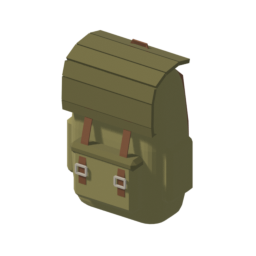
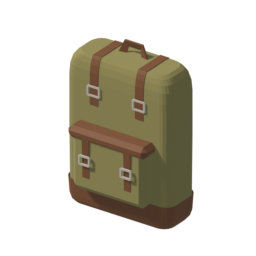
feat(122): item thumbnails — book-bag Pack, old rucksack kept as its own model, squared coffee lid, green bedroll wool

Changed region(s): [[0.2188, 0.0938, 0.7812, 0.9062]]

diff --git a/assets/models/src/items.py b/assets/models/src/items.py
@@ -41,7 +41,7 @@ MATS = {
     "CanvasDark": ((0.13, 0.12, 0.04, 1), 0.95),
     "Leather":    ((0.16, 0.06, 0.02, 1), 0.7),
     "Buckle":     ((0.45, 0.42, 0.36, 1), 0.45),
-    "Wool":       ((0.42, 0.04, 0.03, 1), 0.95),
+    "Wool":       ((0.09, 0.115, 0.026, 1), 0.95),
     "WoolStripe": ((0.78, 0.70, 0.52, 1), 0.95),
 }
 
@@ -205,7 +205,7 @@ def rrect(w, d, r, z, per=4, cx=0.0, cy=0.0):
 # ── Items ────────────────────────────────────────────────────────────────────────────────────────
 
 def build_coffee():
-    """A 12 oz paper to-go cup: tapered cup, rolled rim, kraft sleeve, domed sip lid."""
+    """A 12 oz paper to-go cup: tapered cup, rolled rim, kraft sleeve, squared-off sip lid."""
     b = Builder(); SEG = 32
     r = lambda z: 0.030 + (0.0455 - 0.030) * z / 0.128
     b.lathe([(0.0285, 0.0), (0.030, 0.002)] + [(r(z), z) for z in (0.02, 0.05, 0.08, 0.11, 0.126)]
@@ -213,9 +213,12 @@ def build_coffee():
     z0, z1 = 0.034, 0.094
     b.lathe([(r(z0), z0), (r(z0) + 0.0022, z0), (r(z0 + 0.03) + 0.0022, z0 + 0.03), (r(z1) + 0.0022, z1), (r(z1), z1)],
             SEG, "CupSleeve", cap_bottom=False, cap_top=False)
-    b.lathe([(0.0478, 0.1295), (0.0490, 0.1335), (0.0485, 0.1385), (0.0440, 0.1405), (0.0425, 0.1445),
-             (0.0335, 0.1468), (0.016, 0.1475), (0.0, 0.1478)], SEG, "CupLid", cap_bottom=False, cap_top=False)
-    b.cbox((0.0, -0.033, 0.1462), (0.016, 0.007, 0.004), "CupLid", ch=0.0015)   # sip hole spout, facing front
+    # Lid: a skirt over the rolled rim with a bead, a flat shelf, then a near-vertical wall up to a
+    # squared-off raised band around a recessed flat centre; the sip slot sits on the band at the front.
+    b.lathe([(0.0478, 0.1290), (0.0492, 0.1298), (0.0492, 0.1335), (0.0497, 0.1342), (0.0497, 0.1356),
+             (0.0492, 0.1362), (0.0444, 0.1366), (0.0434, 0.1478), (0.0426, 0.1488), (0.0372, 0.1488),
+             (0.0366, 0.1478), (0.0, 0.1478)], SEG, "CupLid", cap_bottom=False, cap_top=False)
+    b.cbox((0.0, -0.0400, 0.1489), (0.011, 0.0035, 0.0006), "Chili", ch=0.0)   # sip slot: coffee showing through
     return b.finish("coffee")
 
 
@@ -371,6 +374,50 @@ def build_emergencyGas():
 
 
 def build_pack():
+    """A small canvas book bag: boxy body with rounded top edges, two leather straps buckled over the
+    top, leather base, leather-flapped front pocket with two buckled straps, canvas webbing shoulder
+    straps on leather tabs, a leather grab loop."""
+    b = Builder()
+    body = ((0.0, 0.25, 0.085), (0.008, 0.262, 0.097), (0.02, 0.27, 0.10), (0.06, 0.274, 0.104), (0.20, 0.276, 0.106),
+            (0.31, 0.276, 0.106), (0.335, 0.272, 0.104), (0.352, 0.262, 0.098), (0.363, 0.246, 0.090), (0.369, 0.228, 0.082))
+    b.loft([rrect(w, d, min(0.025, d / 2 - 0.002), z, per=5) for z, w, d in body], "Canvas")
+    # Leather base, wrapped a few mm proud of the canvas.
+    base = ((0.0, 0.256, 0.091), (0.008, 0.268, 0.103), (0.02, 0.276, 0.106), (0.06, 0.280, 0.110))
+    b.loft([rrect(w, d, 0.026, z, per=5) for z, w, d in base], "Leather", cap_top=False)
+    # Two leather straps over the top, from the back down the front, buckled above the pocket.
+    over = [r for r in body if r[0] >= 0.30]
+    path = [(d / 2, z) for z, w, d in over] + [(-d / 2, z) for z, w, d in reversed(over)] + [(-body[4][2] / 2, 0.255)]
+    for x in (-0.06, 0.06):
+        for (y0, z0), (y1, z1) in zip(path, path[1:]):
+            t = Vector((0, y1 - y0, z1 - z0)).normalized(); n = (0, -t.z, t.y)
+            b.bar((x, y0, z0), (x, y1, z1), 0.022, "Leather", h=0.004, caps=False, up=n)
+        yb, bz = -body[4][2] / 2 - 0.003, 0.290
+        for (p, q) in (((x - 0.015, yb, bz - 0.011), (x + 0.015, yb, bz - 0.011)),
+                       ((x - 0.015, yb, bz + 0.011), (x + 0.015, yb, bz + 0.011)),
+                       ((x - 0.015, yb, bz - 0.011), (x - 0.015, yb, bz + 0.011)),
+                       ((x + 0.015, yb, bz - 0.011), (x + 0.015, yb, bz + 0.011))):
+            b.bar(p, q, 0.004, "Buckle")
+    # Front pocket under a leather flap, two short straps buckled down over it.
+    b.cbox((0.0, -0.068, 0.13), (0.20, 0.045, 0.15), "Canvas", ch=0.016)
+    b.cbox((0.0, -0.072, 0.197), (0.208, 0.050, 0.030), "Leather", ch=0.010)
+    for x in (-0.055, 0.055):
+        b.ribbon([(x, -0.0955, 0.192), (x, -0.0935, 0.15), (x, -0.092, 0.095)], (0, -1, 0), 0.018, 0.003, "Leather")
+        bz = 0.140
+        for (p, q) in (((x - 0.013, -0.098, bz - 0.010), (x + 0.013, -0.098, bz - 0.010)),
+                       ((x - 0.013, -0.098, bz + 0.010), (x + 0.013, -0.098, bz + 0.010)),
+                       ((x - 0.013, -0.098, bz - 0.010), (x - 0.013, -0.098, bz + 0.010)),
+                       ((x + 0.013, -0.098, bz - 0.010), (x + 0.013, -0.098, bz + 0.010))):
+            b.bar(p, q, 0.004, "Buckle")
+    # Canvas webbing shoulder straps on the back, anchored low on leather tabs; leather grab loop on top.
+    for x in (-0.06, 0.06):
+        b.ribbon([(x * 0.7, 0.040, 0.350), (x, 0.068, 0.31), (x * 1.1, 0.078, 0.20), (x * 1.25, 0.073, 0.08), (x * 1.3, 0.057, 0.040)],
+                 (0, 1, 0), 0.034, 0.006, "CanvasDark")
+        b.cbox((x * 1.3, 0.058, 0.036), (0.040, 0.010, 0.032), "Leather", ch=0.003)
+    b.ribbon([(-0.03, 0.012, 0.366), (-0.02, 0.016, 0.392), (0.02, 0.016, 0.392), (0.03, 0.012, 0.366)], (0, 1, 0.3), 0.018, 0.004, "Leather")
+    return b.finish("pack")
+
+
+def build_rucksack():
     """An old canvas rucksack: lofted body, top flap, front pocket, leather straps + buckles, haul loop."""
     b = Builder()
     rings = []
@@ -379,18 +426,38 @@ def build_pack():
                     (0.36, 0.295, 0.165), (0.40, 0.283, 0.155), (0.42, 0.27, 0.145), (0.445, 0.24, 0.12)):
         rings.append(rrect(w, d, 0.045, z, per=6))
     b.loft(rings, "Canvas")
-    # Top flap: a slab draped over the top and down the front (side profile in YZ, swept along X).
-    prof = [(0.07, 0.455), (0.02, 0.468), (-0.04, 0.462), (-0.085, 0.440), (-0.098, 0.400), (-0.100, 0.330), (-0.096, 0.300)]
-    hw = 0.150
-    for (y0, z0), (y1, z1) in zip(prof, prof[1:]):
-        for (ya, za, yb, zb, mat) in ((y0, z0, y1, z1, "CanvasDark"),):
-            n = Vector((0, -(z1 - z0), (y1 - y0))).normalized() * 0.012
-            b.face([(-hw, ya, za), (hw, ya, za), (hw, yb, zb), (-hw, yb, zb)], mat)
-            b.face([(-hw, yb - n.y, zb - n.z), (hw, yb - n.y, zb - n.z), (hw, ya - n.y, za - n.z), (-hw, ya - n.y, za - n.z)], mat)
-            b.face([(hw, ya, za), (hw, ya - n.y, za - n.z), (hw, yb - n.y, zb - n.z), (hw, yb, zb)], mat)
-            b.face([(-hw, yb, zb), (-hw, yb - n.y, zb - n.z), (-hw, ya - n.y, za - n.z), (-hw, ya, za)], mat)
-    y, z = prof[-1]
-    b.face([(-hw, y, z), (-hw, y + 0.012, z), (hw, y + 0.012, z), (hw, y, z)], "CanvasDark")
+    # Top flap: a soft lid draped over the top and down the front. A grid of (profile x across)
+    # points: the side profile in YZ, its edges drooping into the body as |v|^3 so the flap wraps the
+    # shoulders, and its front hem cut short at the corners into a U. Two skins 1 cm apart + a rim.
+    prof = [Vector(p) for p in ((0.07, 0.455), (0.02, 0.468), (-0.04, 0.462), (-0.085, 0.440), (-0.098, 0.400),
+                                (-0.100, 0.330), (-0.096, 0.300))]
+    arc = [0.0]
+    for p0, p1 in zip(prof, prof[1:]):
+        arc.append(arc[-1] + (p1 - p0).length)
+    def at(sv):   # (point, outward normal) on the profile at arc length sv
+        k = max(i for i in range(len(arc) - 1) if arc[i] <= sv) if sv < arc[-1] else len(arc) - 2
+        p0, p1 = prof[k], prof[k + 1]
+        t = (p1 - p0).normalized()
+        return p0.lerp(p1, (sv - arc[k]) / (p1 - p0).length), Vector((-t.y, t.x)) * -1
+    NU, NV, TH = 12, 10, 0.010
+    outer, inner = [], []
+    for i in range(NU):
+        ro, ri = [], []
+        for j in range(NV):
+            v = -1 + 2 * j / (NV - 1)
+            p, n = at((i / (NU - 1)) * (arc[-1] - 0.06 * v ** 4))
+            hw = 0.140 + 0.012 * (i / (NU - 1))
+            q = p - n * (0.038 * abs(v) ** 3)
+            ro.append((hw * v, q.x, q.y)); ri.append((hw * v * 0.97, q.x - n.x * TH, q.y - n.y * TH))
+        outer.append(ro); inner.append(ri)
+    for i in range(NU - 1):
+        for j in range(NV - 1):
+            b.face([outer[i][j], outer[i][j + 1], outer[i + 1][j + 1], outer[i + 1][j]], "CanvasDark")
+            b.face([inner[i + 1][j], inner[i + 1][j + 1], inner[i][j + 1], inner[i][j]], "CanvasDark")
+    rim = [(0, j) for j in range(NV)] + [(i, NV - 1) for i in range(1, NU)] + \
+          [(NU - 1, j) for j in range(NV - 2, -1, -1)] + [(i, 0) for i in range(NU - 2, 0, -1)]
+    for (i0, j0), (i1, j1) in zip(rim, rim[1:] + rim[:1]):
+        b.face([outer[i0][j0], inner[i0][j0], inner[i1][j1], outer[i1][j1]], "CanvasDark")
     # Front pocket.
     b.cbox((0.0, -0.105, 0.135), (0.215, 0.055, 0.17), "Canvas", ch=0.018)
     b.cbox((0.0, -0.110, 0.205), (0.222, 0.056, 0.035), "CanvasDark", ch=0.012)   # pocket flap
@@ -412,7 +479,7 @@ def build_pack():
     # Side compression pockets.
     for s in (-1, 1):
         b.cbox((s * 0.158, 0.0, 0.16), (0.04, 0.12, 0.17), "Canvas", ch=0.014)
-    return b.finish("pack")
+    return b.finish("rucksack")
 
 
 def build_bedroll():
@@ -448,7 +515,7 @@ def build_bedroll():
 
 BUILDERS = {
     "coffee": build_coffee, "chiliDog": build_chiliDog, "spareTire": build_spareTire,
-    "emergencyGas": build_emergencyGas, "pack": build_pack, "bedroll": build_bedroll,
+    "emergencyGas": build_emergencyGas, "pack": build_pack, "rucksack": build_rucksack, "bedroll": build_bedroll,
 }
 
 
